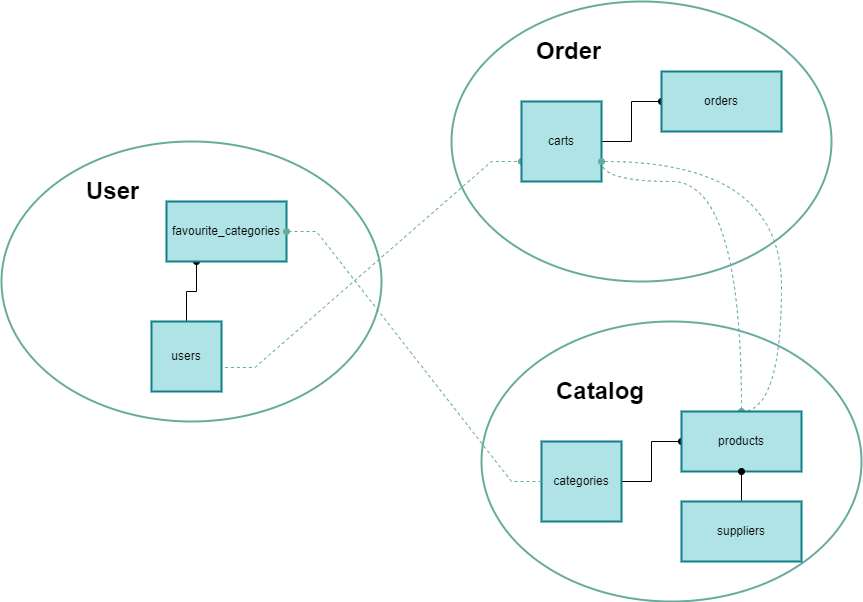
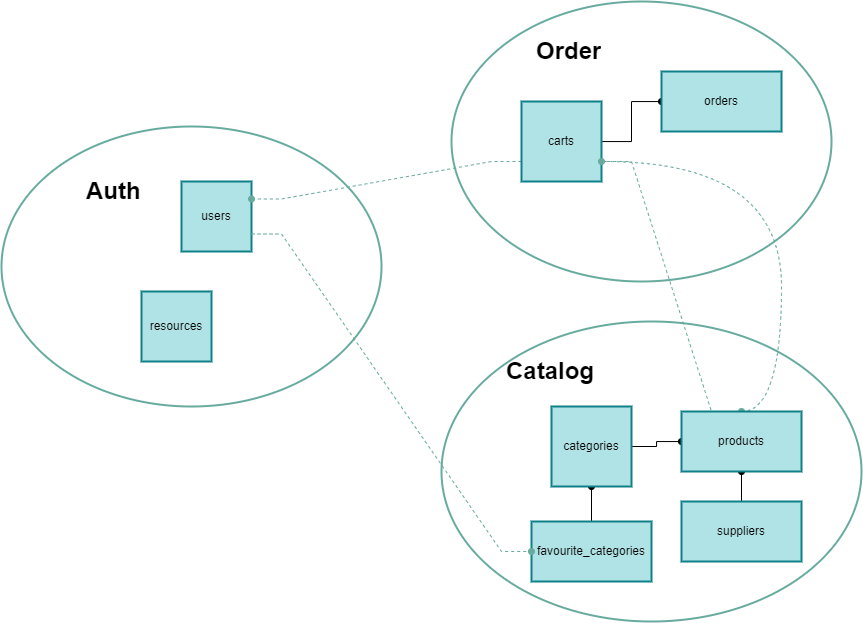
update auth structure

diff --git a/readme.md b/readme.md
@@ -15,7 +15,7 @@ In the following sections, a three-part architecture is proposed that will divid
 
 ## Proposed Design
 ### Microservices
-The three microservices that best divide the monolith are the ones described above, as they are already somewhat well-defined. Other reasons for splitting the monolith into these three services are:
+The three microservices that best divide the monolith are the ones described above (_auth, catalogue,_ and _order_), as they are already somewhat well-defined. Other reasons for splitting the monolith into these three services are:
 1. The user authentication system only interacts with the rest of the application through the order mechanism.
 2. The catalogue is mostly static and is updated either by admin to update or add new products or through the order system to update the stock.
 3. The order system is the most dynamic and is updated frequently through purchases and cart management.
@@ -23,9 +23,9 @@ The three microservices that best divide the monolith are the ones described abo
 
 ### Database Structure
 The database, from the prespective of each service has the following models:
-* **User**:
+* **Auth**:
   * users: user accounts and information
-  * favourite categories: favourite category as chosen by the user
+  * resources: resource access control
 * **Order**:
   * carts: shopping cart details, user_id, items, total, status, etc.
   * orders: order details (i.e. finalized carts with purchase information)
@@ -33,6 +33,7 @@ The database, from the prespective of each service has the following models:
   * categories: categories and subcategories, include parent_id for hierarchy
   * products: product details, category_id, stock, price, etc.
   * suppliers: supplier information, name, address, etc.
+  * favourite categories: each user's favourite categories
 
 <!-- insert access diagram 1 (db objects in services) -->
 | ![access diagram 1](https://github.com/fum-cloud-project/documentation/blob/main/access_diagram_1.png) |
@@ -52,10 +53,10 @@ The actors in the scenario are the following:
 
 ### Internal Communication
 The specific internal communications are as follows:
-* `user — catalog`: getting category information for favourite categroy selection
-* `user — order`: validate auth token
+* `auth — order`: validating auth token
 * `order — catalog`: getting product information
-* `catalog — order`: update product stock
+* `catalog — order`: updating product stock
+* for each operation, the services also verify the JWT token and access control levels through a gRPC call to the auth service. This means there are `auth — order` and `auth — catalog` calls.
 
 
 <!-- add roles -->
